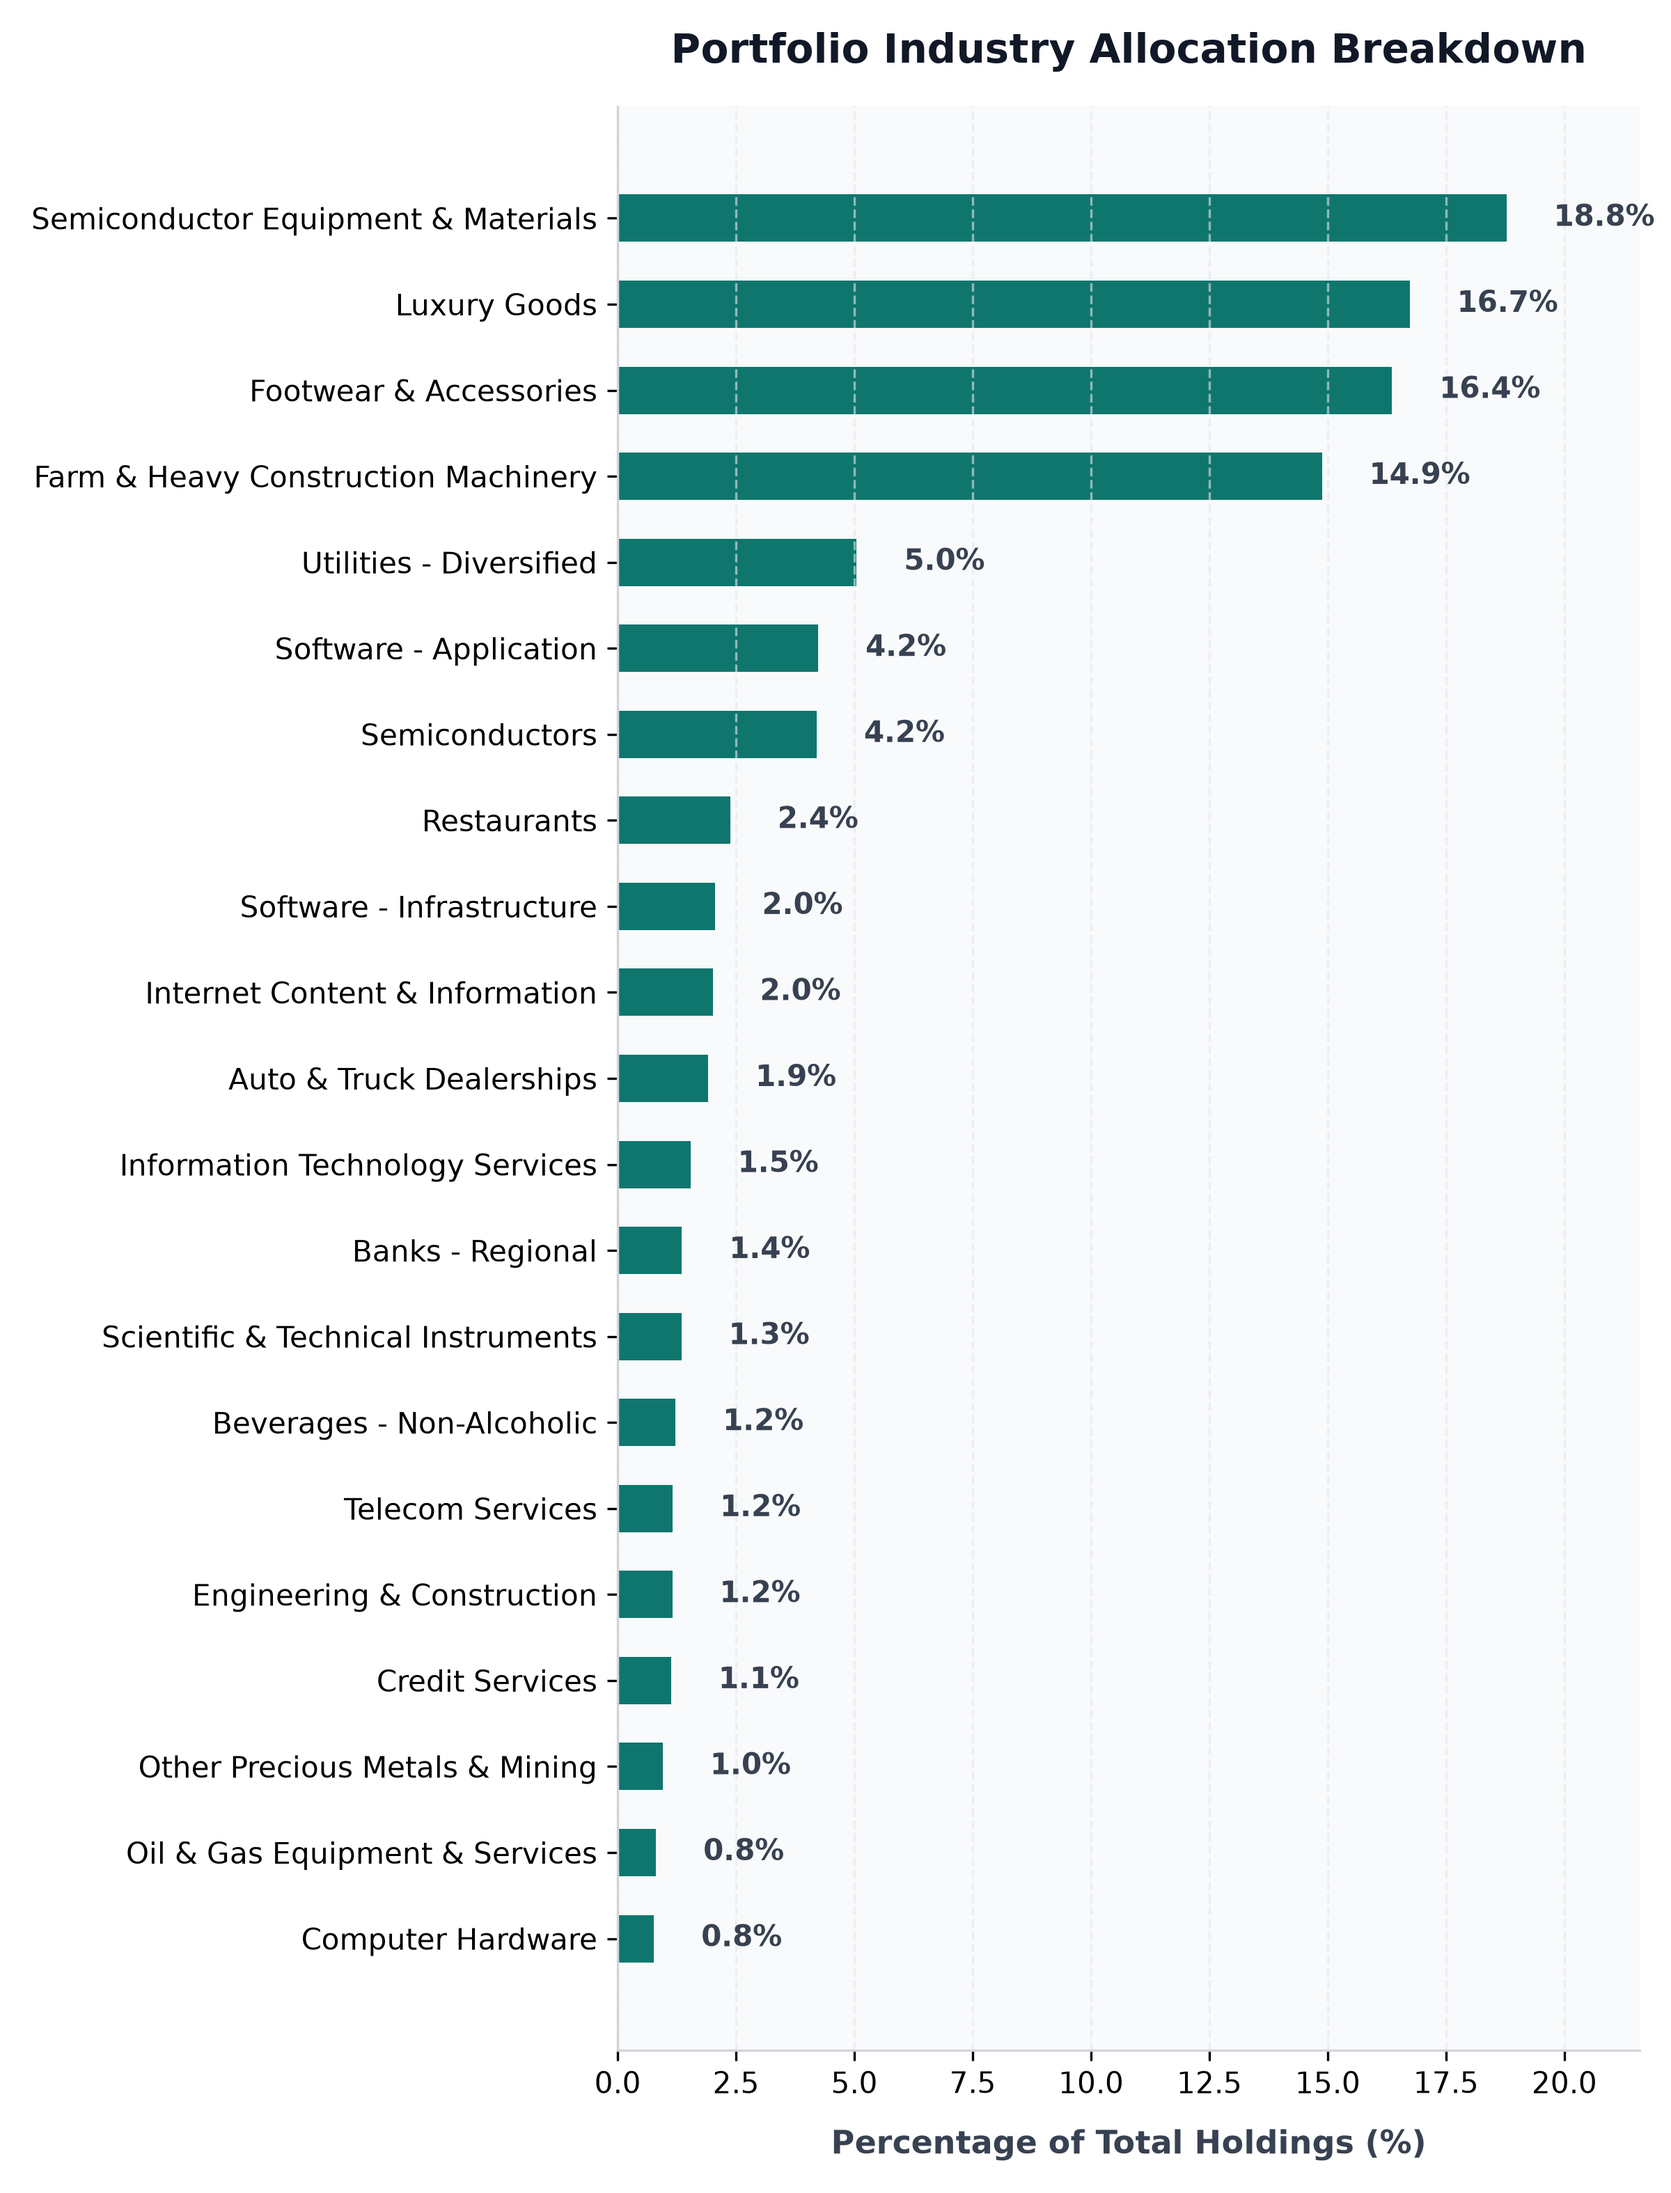
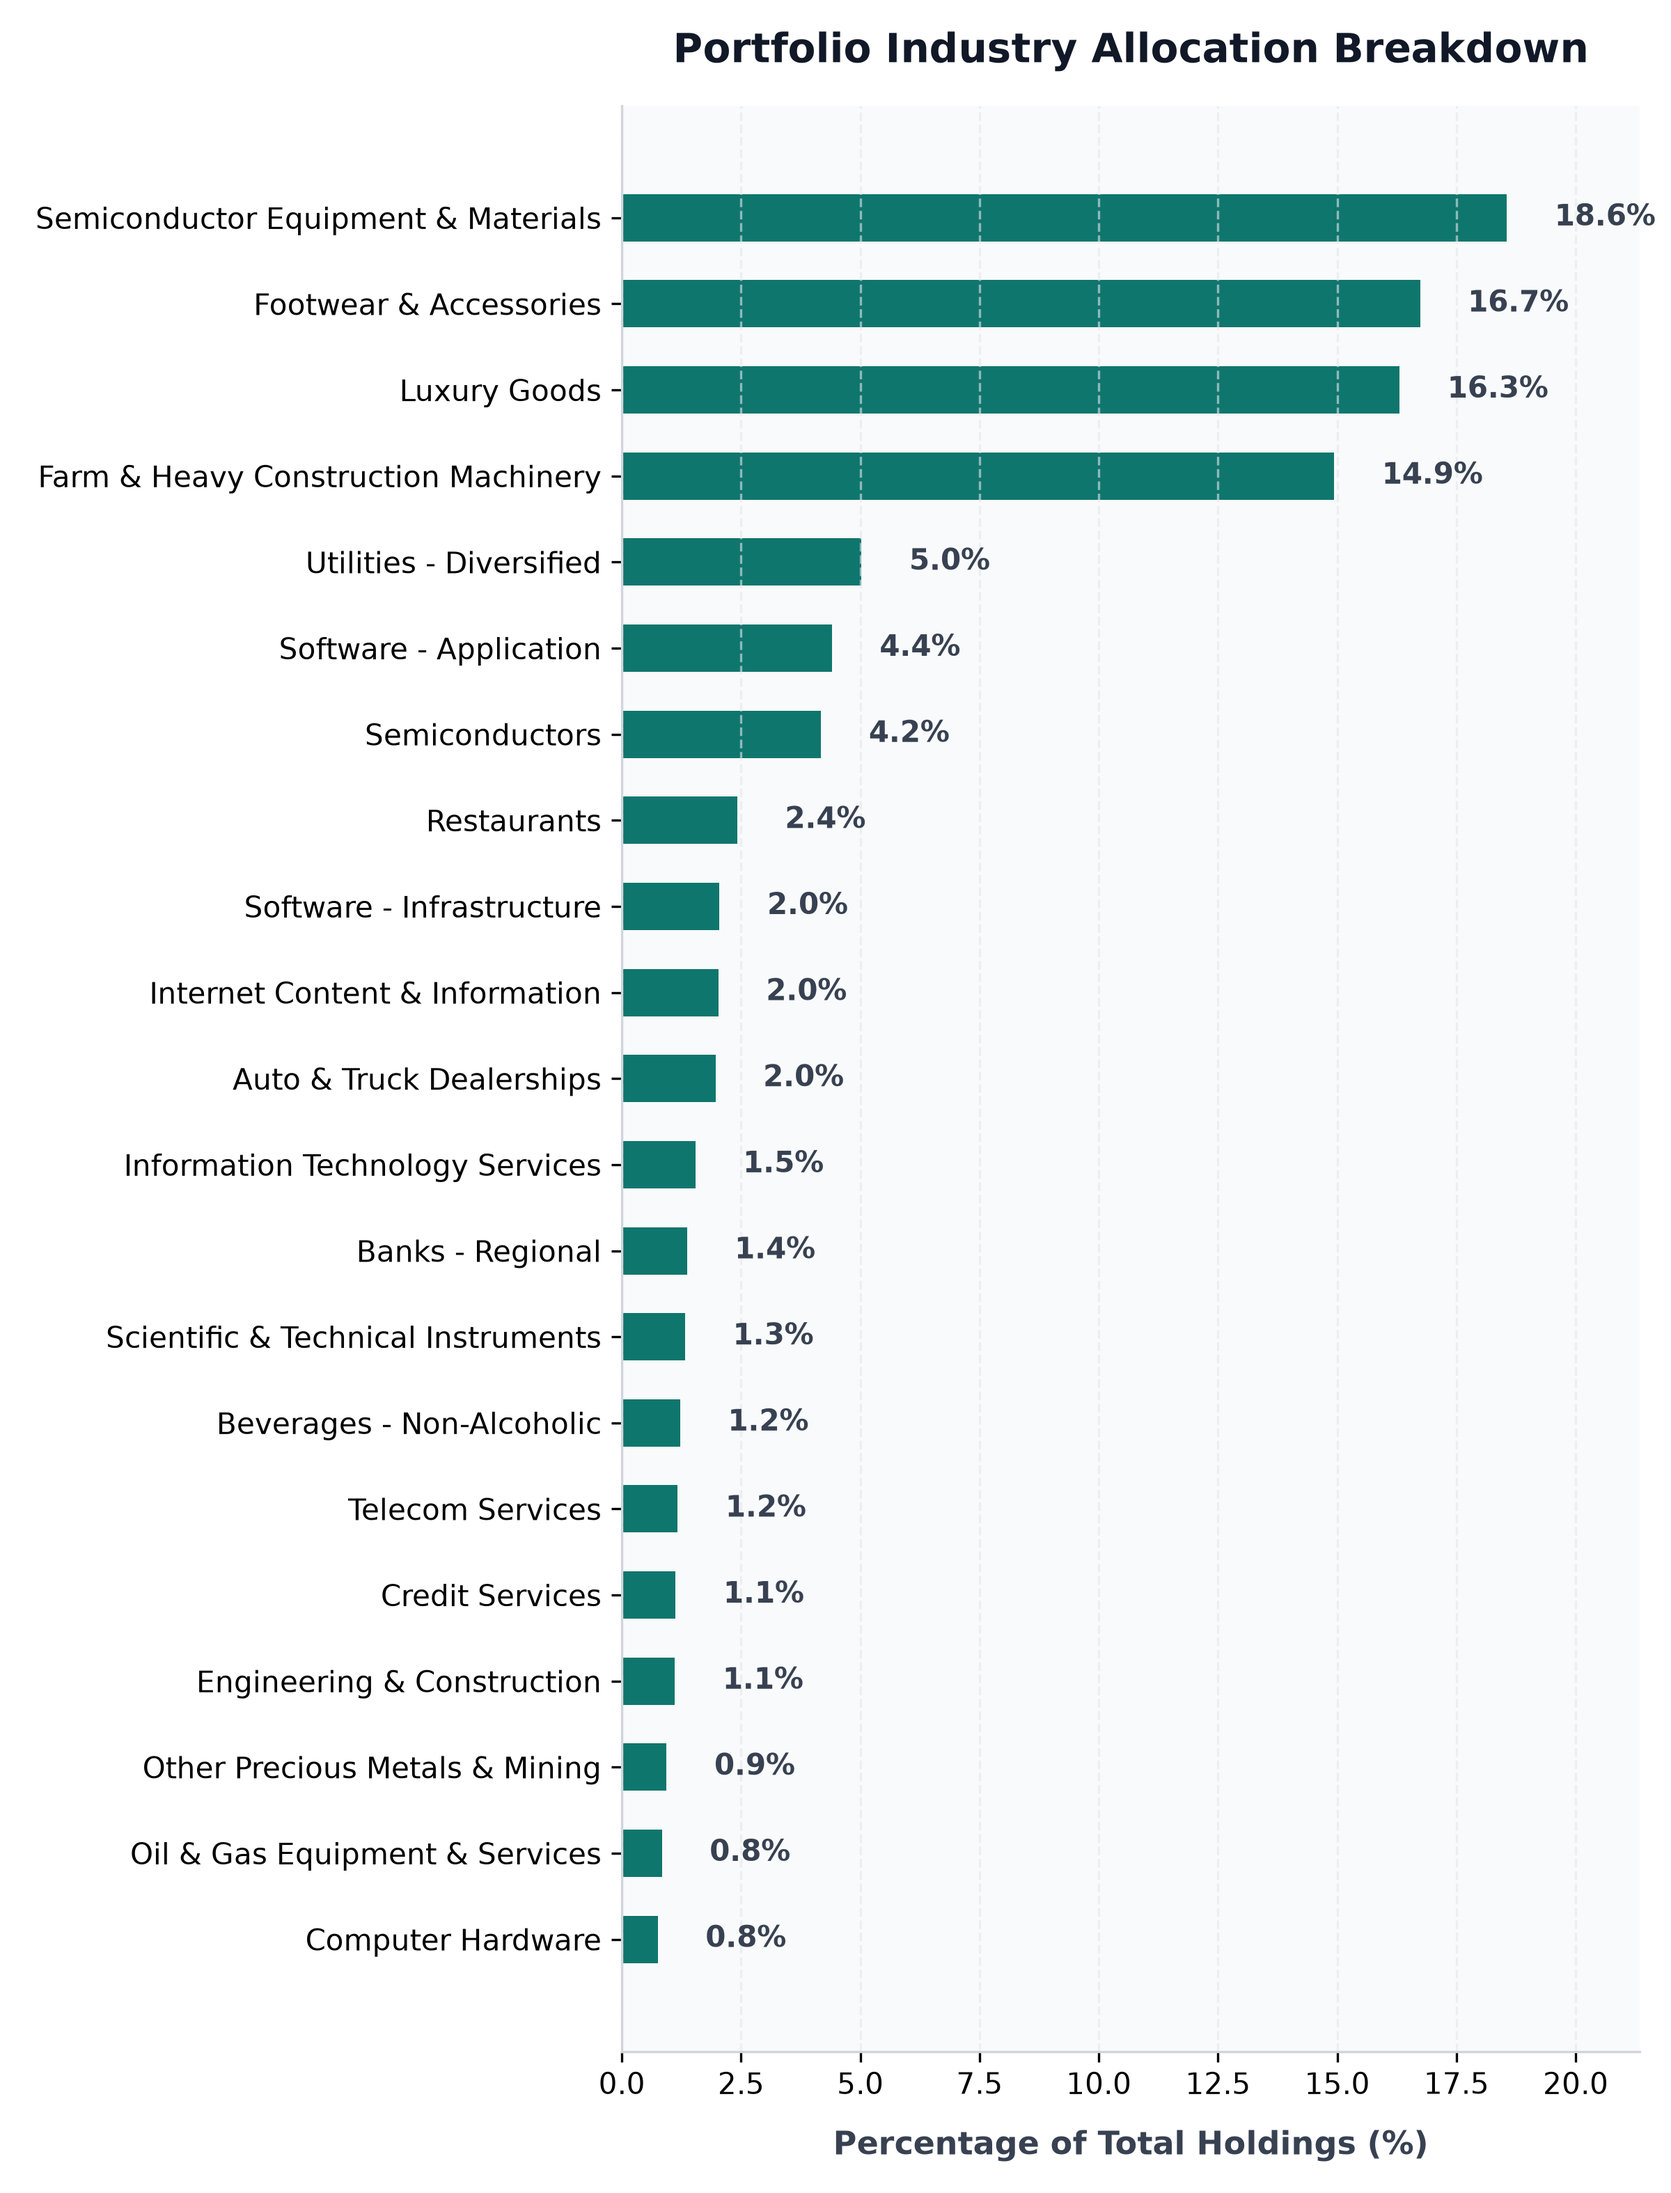
auto: daily portfolio status update - 2026-11-12 06:05:13

diff --git a/src/content/posts/portfolio-performance.md b/src/content/posts/portfolio-performance.md
@@ -1,6 +1,6 @@
 ---
 title: "BadOmen Algorithmic Portfolio Performance & PnL Report"
-pubDatetime: 2026-11-12T00:00:14.891378+08:00
+pubDatetime: 2026-11-12T06:05:13.792517+08:00
 description: "Live performance metrics, active holdings, and historic equity curve for the BadOmen automated paper trading portfolio."
 featured: true
 draft: false
@@ -16,11 +16,11 @@ Welcome to the live performance dashboard for **BadOmen**, our automated algorit
 ## 📊 Portfolio Summary
 | Performance Metric | Value | description |
 | :--- | :--- | :--- |
-| **Net Portfolio Equity** | **$105,022.09** | Total current liquidation value of cash and stock holdings |
-| **Total Unrealized P&L** | 🟢 **+$2,189.09** (+2.13%) | Total return of current open holdings |
+| **Net Portfolio Equity** | **$105,332.47** | Total current liquidation value of cash and stock holdings |
+| **Total Unrealized P&L** | 🟢 **+$2,487.83** (+2.42%) | Total return of current open holdings |
 | **Cash Balance** | $16,312.67 | Idle reserve currency available for limit orders |
-| **Buying Power** | $313,637.04 | Margin-backed buying power for entry allocations |
-| **Report Updated** | `2026-11-12 00:00:14 (SGT)` | Timestamp of daily execution and sync run |
+| **Buying Power** | $314,506.11 | Margin-backed buying power for entry allocations |
+| **Report Updated** | `2026-11-12 06:05:13 (SGT)` | Timestamp of daily execution and sync run |
 
 ## 📈 Net Equity Growth Curve
 The chart below illustrates the historical performance of the account starting from our baseline capital funding of $100,000.00.
@@ -35,36 +35,36 @@ The chart below illustrates the exposure of our currently held active positions 
 ## 💼 Current Position Holdings
 | Ticker | Industry | Shares Owned | Average Entry Cost | Current Price | Unrealized P&L | Return (%) |
 | :--- | :--- | :--- | :--- | :--- | :--- | :--- |
-| **AN** | Auto & Truck Dealerships | 5 | $188.51 | $181.34 | 🔴 $-35.84 | -3.80% |
-| **AVGO** | Semiconductors | 1 | $385.71 | $353.45 | 🔴 $-32.26 | -8.36% |
-| **BIRK** | Footwear & Accessories | 407 | $37.32 | $35.66 | 🔴 $-674.69 | -4.44% |
-| **BLBD** | Farm & Heavy Construction Machinery | 231 | $65.52 | $57.14 | 🔴 $-1,934.85 | -12.78% |
-| **BVN** | Other Precious Metals & Mining | 32 | $31.88 | $26.40 | 🔴 $-175.20 | -17.18% |
-| **CELH** | Beverages - Non-Alcoholic | 33 | $29.71 | $32.83 | 🟢 +$102.87 | +10.49% |
-| **CPRI** | Luxury Goods | 695 | $14.13 | $21.36 | 🟢 +$5,023.38 | +51.14% |
-| **DUOL** | Software - Application | 14 | $131.04 | $154.90 | 🟢 +$333.98 | +18.20% |
-| **FIS** | Information Technology Services | 23 | $41.79 | $29.50 | 🔴 $-282.56 | -29.40% |
-| **GDDY** | Software - Infrastructure | 6 | $76.21 | $113.19 | 🟢 +$221.85 | +48.52% |
-| **GDS** | Information Technology Services | 30 | $32.77 | $22.84 | 🔴 $-297.90 | -30.30% |
-| **GGAL** | Banks - Regional | 17 | $56.04 | $30.02 | 🔴 $-442.25 | -46.42% |
-| **GOOGL** | Internet Content & Information | 3 | $319.44 | $291.35 | 🔴 $-84.27 | -8.79% |
-| **GPI** | Auto & Truck Dealerships | 3 | $316.15 | $262.92 | 🔴 $-159.69 | -16.84% |
-| **HUBS** | Software - Application | 8 | $221.18 | $198.61 | 🔴 $-180.57 | -10.21% |
-| **ITRI** | Scientific & Technical Instruments | 12 | $81.80 | $99.46 | 🟢 +$211.92 | +21.59% |
-| **KBR** | Engineering & Construction | 27 | $36.23 | $37.88 | 🟢 +$44.47 | +4.55% |
-| **LRCX** | Semiconductor Equipment & Materials | 70 | $214.93 | $237.95 | 🟢 +$1,611.14 | +10.71% |
-| **NESR** | Oil & Gas Equipment & Services | 34 | $28.74 | $21.10 | 🔴 $-259.76 | -26.58% |
-| **NU** | Banks - Regional | 57 | $11.60 | $12.14 | 🟢 +$31.15 | +4.71% |
-| **ON** | Semiconductors | 10 | $90.45 | $73.40 | 🔴 $-170.55 | -18.86% |
-| **ORCL** | Software - Infrastructure | 5 | $181.95 | $128.24 | 🔴 $-268.55 | -29.52% |
-| **PATH** | Software - Infrastructure | 38 | $10.25 | $13.11 | 🟢 +$108.49 | +27.85% |
-| **PYPL** | Credit Services | 17 | $56.05 | $58.89 | 🟢 +$48.28 | +5.07% |
-| **QCOM** | Semiconductors | 15 | $193.68 | $176.12 | 🔴 $-263.47 | -9.07% |
-| **SMCI** | Computer Hardware | 22 | $29.25 | $30.84 | 🟢 +$34.87 | +5.42% |
-| **SRE** | Utilities - Diversified | 57 | $84.75 | $78.59 | 🔴 $-351.26 | -7.27% |
-| **T** | Telecom Services | 47 | $20.85 | $21.91 | 🟢 +$50.05 | +5.11% |
-| **WEN** | Restaurants | 257 | $8.02 | $8.21 | 🟢 +$46.59 | +2.26% |
-| **ZG** | Internet Content & Information | 31 | $31.35 | $29.21 | 🔴 $-66.29 | -6.82% |
+| **AN** | Auto & Truck Dealerships | 5 | $188.51 | $187.21 | 🔴 $-6.49 | -0.69% |
+| **AVGO** | Semiconductors | 1 | $385.71 | $350.00 | 🔴 $-35.71 | -9.26% |
+| **BIRK** | Footwear & Accessories | 407 | $37.32 | $36.61 | 🔴 $-288.04 | -1.90% |
+| **BLBD** | Farm & Heavy Construction Machinery | 231 | $65.52 | $57.56 | 🔴 $-1,837.83 | -12.14% |
+| **BVN** | Other Precious Metals & Mining | 32 | $31.88 | $26.10 | 🔴 $-184.80 | -18.12% |
+| **CELH** | Beverages - Non-Alcoholic | 33 | $29.71 | $33.00 | 🟢 +$108.48 | +11.06% |
+| **CPRI** | Luxury Goods | 695 | $14.13 | $20.89 | 🟢 +$4,696.73 | +47.82% |
+| **DUOL** | Software - Application | 14 | $131.04 | $164.12 | 🟢 +$463.06 | +25.24% |
+| **FIS** | Information Technology Services | 23 | $41.79 | $30.10 | 🔴 $-268.87 | -27.97% |
+| **GDDY** | Software - Infrastructure | 6 | $76.21 | $113.54 | 🟢 +$223.98 | +48.98% |
+| **GDS** | Information Technology Services | 30 | $32.77 | $22.62 | 🔴 $-304.50 | -30.97% |
+| **GGAL** | Banks - Regional | 17 | $56.04 | $29.87 | 🔴 $-444.88 | -46.70% |
+| **GOOGL** | Internet Content & Information | 3 | $319.44 | $292.46 | 🔴 $-80.94 | -8.45% |
+| **GPI** | Auto & Truck Dealerships | 3 | $316.15 | $270.27 | 🔴 $-137.64 | -14.51% |
+| **HUBS** | Software - Application | 8 | $221.18 | $202.88 | 🔴 $-146.41 | -8.27% |
+| **ITRI** | Scientific & Technical Instruments | 12 | $81.80 | $98.50 | 🟢 +$200.40 | +20.42% |
+| **KBR** | Engineering & Construction | 27 | $36.23 | $36.68 | 🟢 +$12.07 | +1.23% |
+| **LRCX** | Semiconductor Equipment & Materials | 70 | $214.93 | $236.00 | 🟢 +$1,474.64 | +9.80% |
+| **NESR** | Oil & Gas Equipment & Services | 34 | $28.74 | $21.98 | 🔴 $-229.84 | -23.52% |
+| **NU** | Banks - Regional | 57 | $11.60 | $12.39 | 🟢 +$45.11 | +6.82% |
+| **ON** | Semiconductors | 10 | $90.45 | $73.62 | 🔴 $-168.35 | -18.61% |
+| **ORCL** | Software - Infrastructure | 5 | $181.95 | $128.25 | 🔴 $-268.50 | -29.51% |
+| **PATH** | Software - Infrastructure | 38 | $10.25 | $13.17 | 🟢 +$110.92 | +28.48% |
+| **PYPL** | Credit Services | 17 | $56.05 | $59.07 | 🟢 +$51.34 | +5.39% |
+| **QCOM** | Semiconductors | 15 | $193.68 | $175.52 | 🔴 $-272.47 | -9.38% |
+| **SMCI** | Computer Hardware | 22 | $29.25 | $30.47 | 🟢 +$26.84 | +4.17% |
+| **SRE** | Utilities - Diversified | 57 | $84.75 | $78.50 | 🔴 $-356.39 | -7.38% |
+| **T** | Telecom Services | 47 | $20.85 | $22.18 | 🟢 +$62.51 | +6.38% |
+| **WEN** | Restaurants | 257 | $8.02 | $8.38 | 🟢 +$91.56 | +4.44% |
+| **ZG** | Internet Content & Information | 31 | $31.35 | $29.80 | 🔴 $-48.15 | -4.95% |
 
 ## 🔴 Recent Realized Trades
 | Ticker | Shares Sold | Entry Price | Exit Price | Strategy Trigger | Realized Return | Exit Date |
